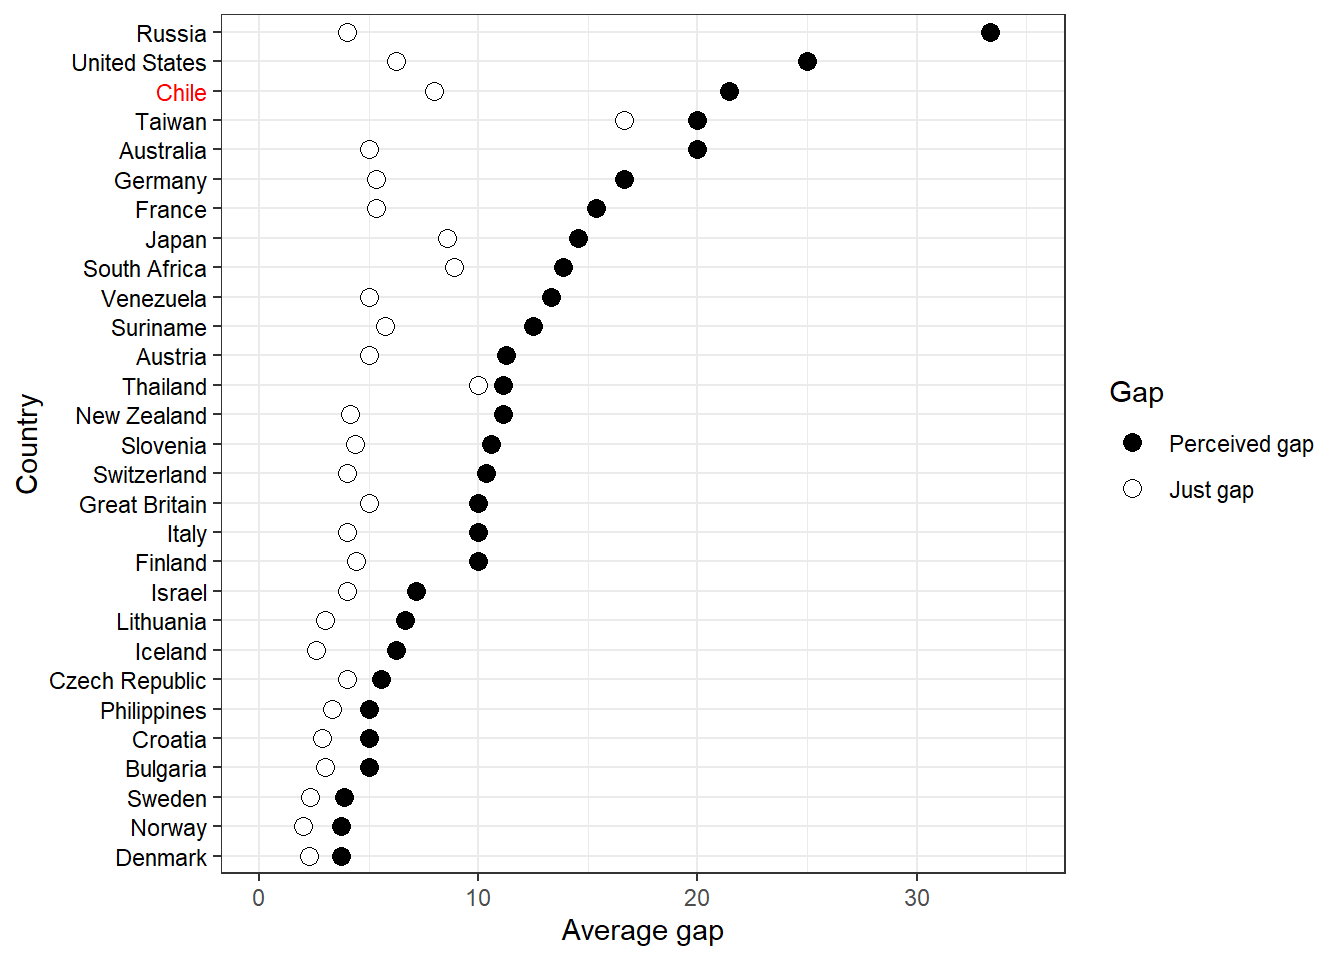
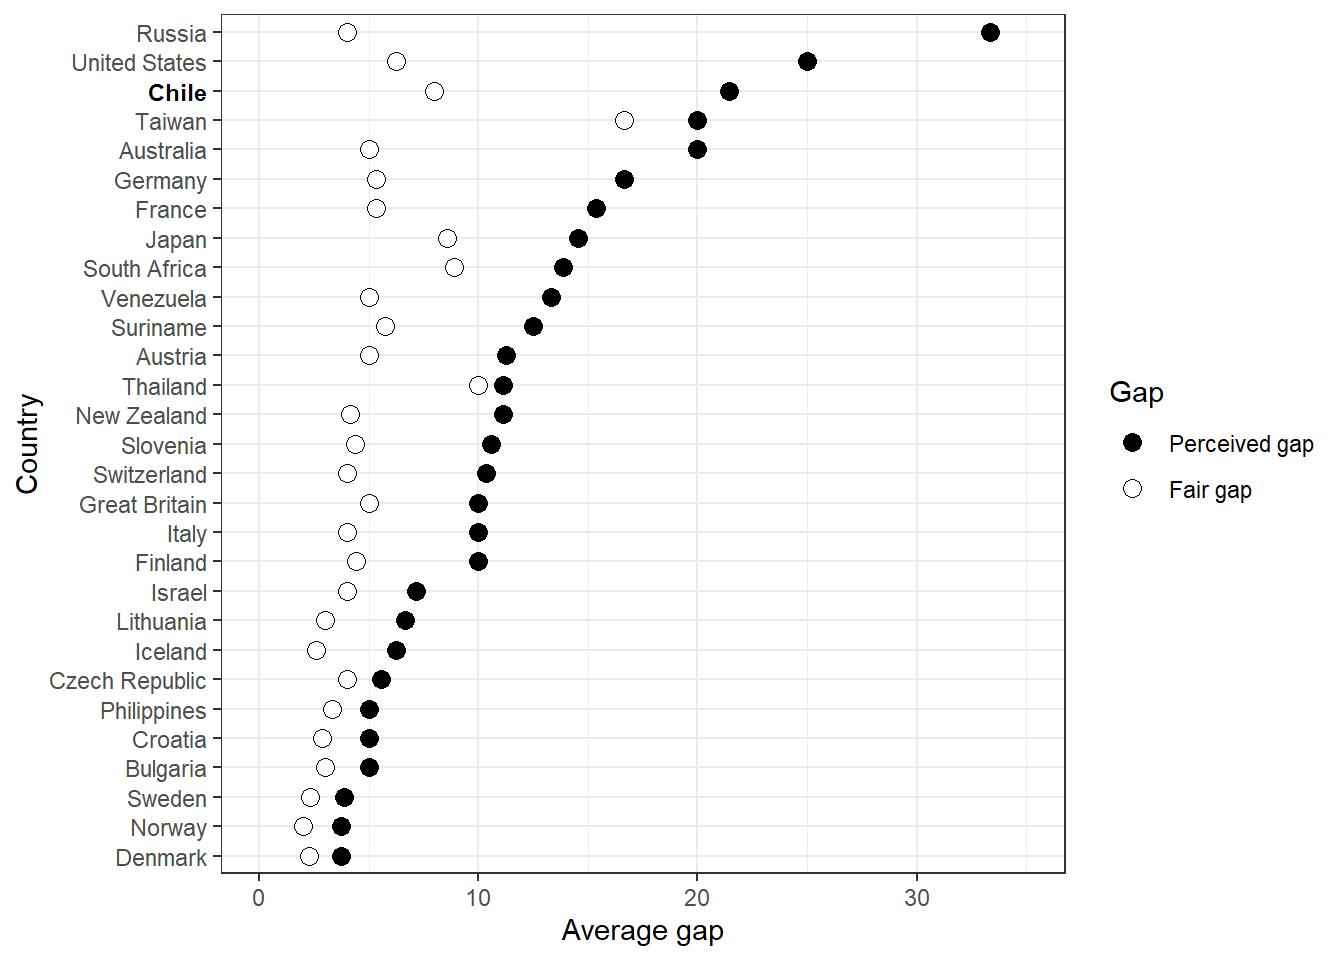
update cleveland plot

Changed region(s): [[0.0312, 0.0312, 0.1562, 0.9062], [0.875, 0.5, 0.9375, 0.5312]]

diff --git a/docs/04-graphs.html b/docs/04-graphs.html
@@ -745,15 +745,16 @@ Workers           | 4889 | 42.03 |   47.27 | 100.00
 <span id="cb19-3"><a href="#cb19-3" aria-hidden="true" tabindex="-1"></a>  <span class="fu">geom_line</span>(<span class="fu">aes</span>(<span class="at">x =</span> brecha_perc_2019, <span class="at">y =</span> pais, <span class="at">group =</span> pais), <span class="at">color =</span> <span class="st">"black"</span>, <span class="at">size =</span> <span class="fl">0.5</span>) <span class="sc">+</span></span>
 <span id="cb19-4"><a href="#cb19-4" aria-hidden="true" tabindex="-1"></a>  <span class="fu">geom_line</span>(<span class="fu">aes</span>(<span class="at">x =</span> brecha_just_2019, <span class="at">y =</span> pais, <span class="at">group =</span> pais), <span class="at">color =</span> <span class="st">"black"</span>, <span class="at">size =</span> <span class="fl">0.5</span>) <span class="sc">+</span></span>
 <span id="cb19-5"><a href="#cb19-5" aria-hidden="true" tabindex="-1"></a>  <span class="fu">geom_point</span>(<span class="fu">aes</span>(<span class="at">x =</span> brecha_perc_2019, <span class="at">y =</span> pais, <span class="at">fill =</span> <span class="st">"Perceived gap"</span>), <span class="at">shape =</span> <span class="dv">21</span>, <span class="at">size =</span> <span class="dv">3</span>, <span class="at">color =</span> <span class="st">"black"</span>) <span class="sc">+</span></span>
-<span id="cb19-6"><a href="#cb19-6" aria-hidden="true" tabindex="-1"></a>  <span class="fu">geom_point</span>(<span class="fu">aes</span>(<span class="at">x =</span> brecha_just_2019, <span class="at">y =</span> pais, <span class="at">fill =</span> <span class="st">"Just gap"</span>), <span class="at">shape =</span> <span class="dv">21</span>, <span class="at">size =</span> <span class="dv">3</span>, <span class="at">color =</span> <span class="st">"black"</span>) <span class="sc">+</span></span>
+<span id="cb19-6"><a href="#cb19-6" aria-hidden="true" tabindex="-1"></a>  <span class="fu">geom_point</span>(<span class="fu">aes</span>(<span class="at">x =</span> brecha_just_2019, <span class="at">y =</span> pais, <span class="at">fill =</span> <span class="st">"Fair gap"</span>), <span class="at">shape =</span> <span class="dv">21</span>, <span class="at">size =</span> <span class="dv">3</span>, <span class="at">color =</span> <span class="st">"black"</span>) <span class="sc">+</span></span>
 <span id="cb19-7"><a href="#cb19-7" aria-hidden="true" tabindex="-1"></a>  <span class="fu">xlab</span>(<span class="st">"Average gap"</span>) <span class="sc">+</span></span>
 <span id="cb19-8"><a href="#cb19-8" aria-hidden="true" tabindex="-1"></a>  <span class="fu">ylab</span>(<span class="st">"Country"</span>) <span class="sc">+</span></span>
 <span id="cb19-9"><a href="#cb19-9" aria-hidden="true" tabindex="-1"></a>  <span class="fu">xlim</span>(<span class="dv">0</span>, <span class="dv">35</span>) <span class="sc">+</span></span>
 <span id="cb19-10"><a href="#cb19-10" aria-hidden="true" tabindex="-1"></a>  <span class="fu">scale_fill_manual</span>(<span class="at">name =</span> <span class="st">"Gap"</span>, </span>
-<span id="cb19-11"><a href="#cb19-11" aria-hidden="true" tabindex="-1"></a>                    <span class="at">values =</span> <span class="fu">c</span>(<span class="st">"Perceived gap"</span> <span class="ot">=</span> <span class="st">"black"</span>, <span class="st">"Just gap"</span> <span class="ot">=</span> <span class="st">"white"</span>),</span>
-<span id="cb19-12"><a href="#cb19-12" aria-hidden="true" tabindex="-1"></a>                    <span class="at">breaks =</span> <span class="fu">c</span>(<span class="st">"Perceived gap"</span>, <span class="st">"Just gap"</span>)) <span class="sc">+</span> </span>
-<span id="cb19-13"><a href="#cb19-13" aria-hidden="true" tabindex="-1"></a>  <span class="fu">theme</span>(<span class="at">axis.text.y =</span> <span class="fu">element_text</span>(<span class="at">colour =</span> <span class="fu">c</span>(<span class="fu">rep</span>(<span class="st">"black"</span>, <span class="dv">26</span>), <span class="st">"red"</span>, <span class="fu">rep</span>(<span class="st">"black"</span>, <span class="dv">2</span>))),</span>
-<span id="cb19-14"><a href="#cb19-14" aria-hidden="true" tabindex="-1"></a>        <span class="at">legend.position =</span> <span class="st">"right"</span>)</span></code><button title="Copy to Clipboard" class="code-copy-button"><i class="bi"></i></button></pre></div>
+<span id="cb19-11"><a href="#cb19-11" aria-hidden="true" tabindex="-1"></a>                    <span class="at">values =</span> <span class="fu">c</span>(<span class="st">"Perceived gap"</span> <span class="ot">=</span> <span class="st">"black"</span>, <span class="st">"Fair gap"</span> <span class="ot">=</span> <span class="st">"white"</span>),</span>
+<span id="cb19-12"><a href="#cb19-12" aria-hidden="true" tabindex="-1"></a>                    <span class="at">breaks =</span> <span class="fu">c</span>(<span class="st">"Perceived gap"</span>, <span class="st">"Fair gap"</span>)) <span class="sc">+</span> </span>
+<span id="cb19-13"><a href="#cb19-13" aria-hidden="true" tabindex="-1"></a>  <span class="fu">theme</span>(<span class="at">axis.text.y =</span> <span class="fu">element_text</span>(<span class="at">color =</span> <span class="fu">c</span>(<span class="fu">rep</span>(<span class="st">"gray30"</span>, <span class="dv">26</span>), <span class="st">"black"</span>, <span class="fu">rep</span>(<span class="st">"gray30"</span>, <span class="dv">2</span>)),</span>
+<span id="cb19-14"><a href="#cb19-14" aria-hidden="true" tabindex="-1"></a>                                 <span class="at">face =</span> <span class="fu">c</span>(<span class="fu">rep</span>(<span class="st">"plain"</span>, <span class="dv">26</span>), <span class="st">"bold"</span>, <span class="fu">rep</span>(<span class="st">"plain"</span>, <span class="dv">2</span>))),</span>
+<span id="cb19-15"><a href="#cb19-15" aria-hidden="true" tabindex="-1"></a>        <span class="at">legend.position =</span> <span class="st">"right"</span>)</span></code><button title="Copy to Clipboard" class="code-copy-button"><i class="bi"></i></button></pre></div>
 <div class="cell-output cell-output-stderr">
 <pre><code>Warning: Using `size` aesthetic for lines was deprecated in ggplot2 3.4.0.
 ℹ Please use `linewidth` instead.</code></pre>
